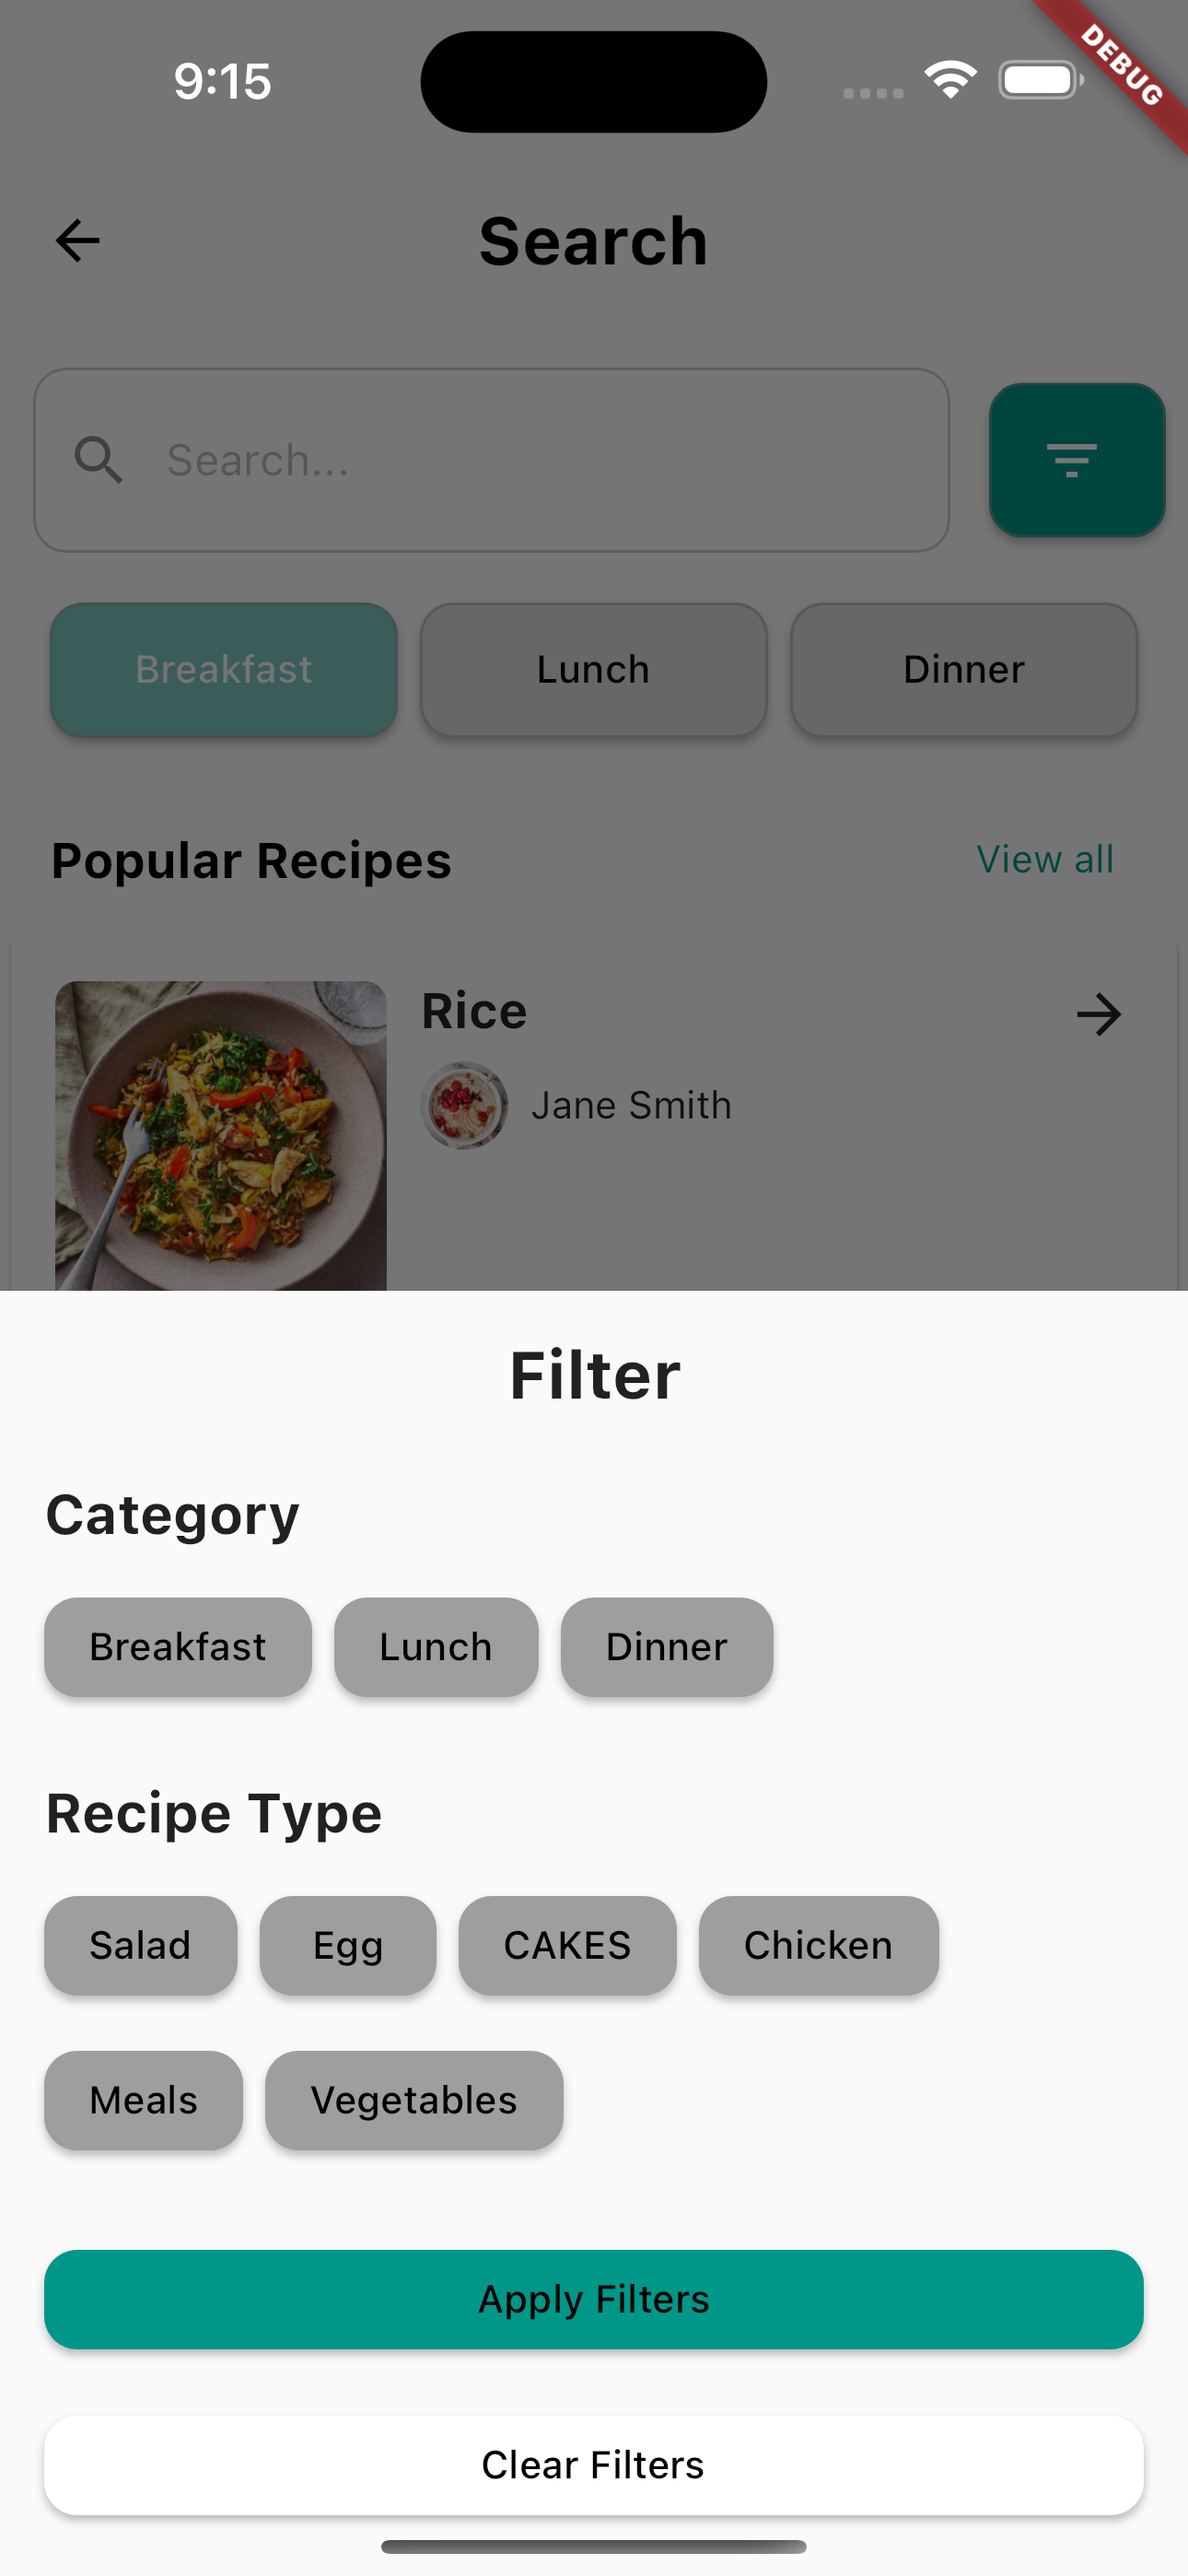
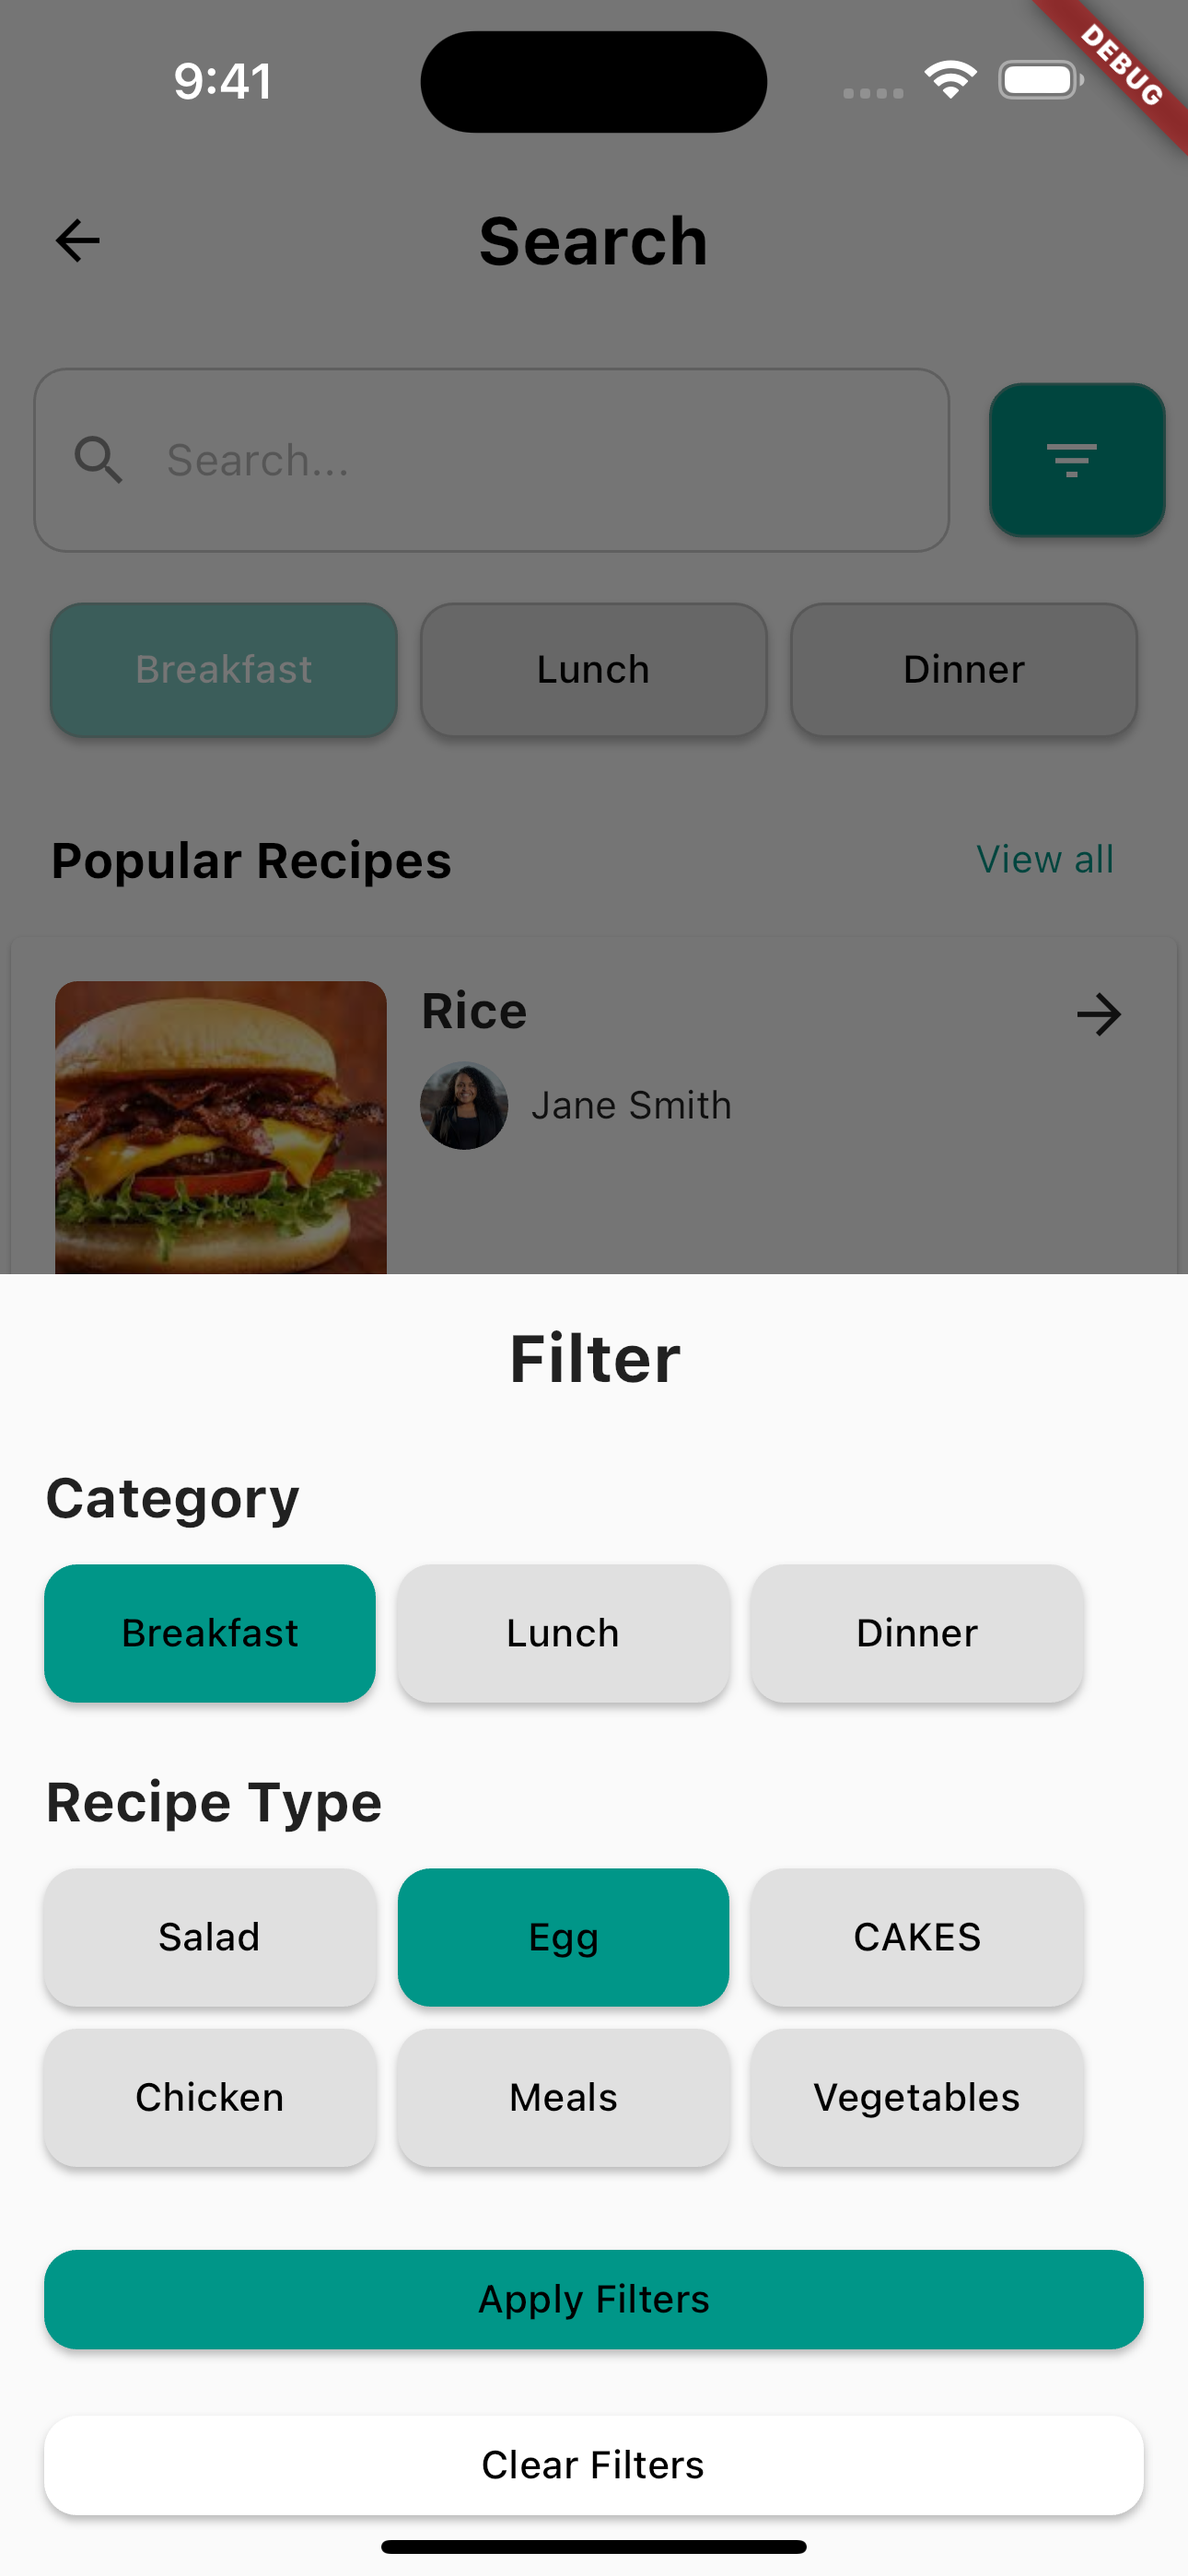
Updated README

diff --git a/lib/Components/HomeComponents/filter_popup.dart b/lib/Components/HomeComponents/filter_popup.dart
@@ -4,45 +4,46 @@ class FilterBottomSheet extends StatefulWidget {
   const FilterBottomSheet({Key? key}) : super(key: key);
 
   @override
-  // ignore: library_private_types_in_public_api
   _FilterBottomSheetState createState() => _FilterBottomSheetState();
 }
 
 class _FilterBottomSheetState extends State<FilterBottomSheet> {
+  List<String> selectedOptions = []; // To keep track of selected filter options
+
   @override
   Widget build(BuildContext context) {
     return Container(
-      color: Colors.transparent, // We use a transparent container to make the content visible in the bottom sheet
+      color: Colors.transparent,
       child: Padding(
         padding: const EdgeInsets.all(16.0),
-        child: Column(
-          mainAxisSize: MainAxisSize.min,
-          crossAxisAlignment: CrossAxisAlignment.stretch,
-          children: [
-            const Center(
-              child: Text(
-                'Filter',
-                style: TextStyle(
-                  fontSize: 24,
-                  fontWeight: FontWeight.bold,
+        child: SingleChildScrollView(
+          child: Column(
+            mainAxisSize: MainAxisSize.min,
+            crossAxisAlignment: CrossAxisAlignment.stretch,
+            children: [
+              const Center(
+                child: Text(
+                  'Filter',
+                  style: TextStyle(
+                    fontSize: 24,
+                    fontWeight: FontWeight.bold,
+                  ),
                 ),
               ),
-            ),
-            SizedBox(height: 24),
-            _buildFilterCategory('Category', ['Breakfast', 'Lunch', 'Dinner']),
-            const SizedBox(height: 24),
-            _buildFilterCategory('Recipe Type', ['Salad', 'Egg', 'CAKES', 'Chicken', 'Meals', 'Vegetables']),
-            SizedBox(height: 24),
-            _buildFilterButtons('Apply Filters', Colors.teal, () {
-              // Add logic for applying filters
-              Navigator.pop(context);
-            }),
-            SizedBox(height: 12),
-            _buildFilterButtons('Clear Filters', Colors.white, () {
-              // Add logic for clearing filters
-              Navigator.pop(context);
-            }),
-          ],
+              const SizedBox(height: 24),
+              _buildFilterCategory('Category', ['Breakfast', 'Lunch', 'Dinner']),
+              const SizedBox(height: 24),
+              _buildFilterCategory('Recipe Type', ['Salad', 'Egg', 'CAKES', 'Chicken', 'Meals', 'Vegetables']),
+              const SizedBox(height: 24),
+              _buildFilterButtons('Apply Filters', Colors.teal, () {
+                Navigator.pop(context);
+              }),
+              const SizedBox(height: 12),
+              _buildFilterButtons('Clear Filters', Colors.white, () {
+                Navigator.pop(context);
+              }),
+            ],
+          ),
         ),
       ),
     );
@@ -54,13 +55,14 @@ class _FilterBottomSheetState extends State<FilterBottomSheet> {
       children: [
         Text(
           title,
-          style: TextStyle(
+          style: const TextStyle(
             fontSize: 20,
             fontWeight: FontWeight.bold,
           ),
         ),
-        SizedBox(height: 12),
+        const SizedBox(height: 12),
         Wrap(
+          alignment: WrapAlignment.center, // Center the filter options
           spacing: 8,
           runSpacing: 8,
           children: options
@@ -74,19 +76,28 @@ class _FilterBottomSheetState extends State<FilterBottomSheet> {
   }
 
   Widget _buildFilterOption(String option) {
+    bool isSelected = selectedOptions.contains(option); // Check if the option is selected
+
     return ElevatedButton(
       onPressed: () {
-        // Add logic for handling filter option selection
+        setState(() {
+          if (isSelected) {
+            selectedOptions.remove(option);
+          } else {
+            selectedOptions.add(option);
+          }
+        });
       },
       style: ElevatedButton.styleFrom(
-        primary: Colors.grey,
+        primary: isSelected ? Colors.teal : Colors.grey[300], // Change color based on selection
         shape: RoundedRectangleBorder(
           borderRadius: BorderRadius.circular(12),
         ),
+        fixedSize: Size(120, 50), // Increase size for all filter buttons
       ),
       child: Text(
         option,
-        style: TextStyle(
+        style: const TextStyle(
           color: Colors.black,
         ),
       ),
@@ -104,7 +115,7 @@ class _FilterBottomSheetState extends State<FilterBottomSheet> {
       ),
       child: Text(
         label,
-        style: TextStyle(
+        style: const TextStyle(
           color: Colors.black,
         ),
       ),

diff --git a/lib/Components/HomeComponents/editor_listview.dart b/lib/Components/HomeComponents/editor_listview.dart
@@ -39,14 +39,14 @@ class RecipeCard extends StatelessWidget {
   final String recipeTitle;
   final String authorName;
   final String imageUrl;
-  final String authorImageUrl; // Added this for the local author image
+  final String authorImageUrl; 
 
   const RecipeCard({
     Key? key, 
     required this.recipeTitle,
     required this.authorName,
     required this.imageUrl,
-    required this.authorImageUrl, // Initialize the local author image URL
+    required this.authorImageUrl, 
   }) : super(key: key);
 
   @override
@@ -60,7 +60,7 @@ class RecipeCard extends StatelessWidget {
             ClipRRect(
               borderRadius: BorderRadius.circular(8),
               child: Image.asset(
-                imageUrl,  // Using the asset image for the recipe
+                imageUrl,  
                 width: 120,
                 height: 120,
                 fit: BoxFit.cover,
@@ -83,7 +83,7 @@ class RecipeCard extends StatelessWidget {
                     children: [
                       CircleAvatar(
                         backgroundImage: AssetImage(
-                          authorImageUrl,  // Using the asset image for the author
+                          authorImageUrl,  
                         ),
                         radius: 16,
                       ),

diff --git a/README.md b/README.md
@@ -18,5 +18,3 @@ Recipe Finder is a mobile application designed to help users discover and explor
 ![alt text](assets/images/home.png)
 
 ![alt text](assets/images/filter.png)
-
-
